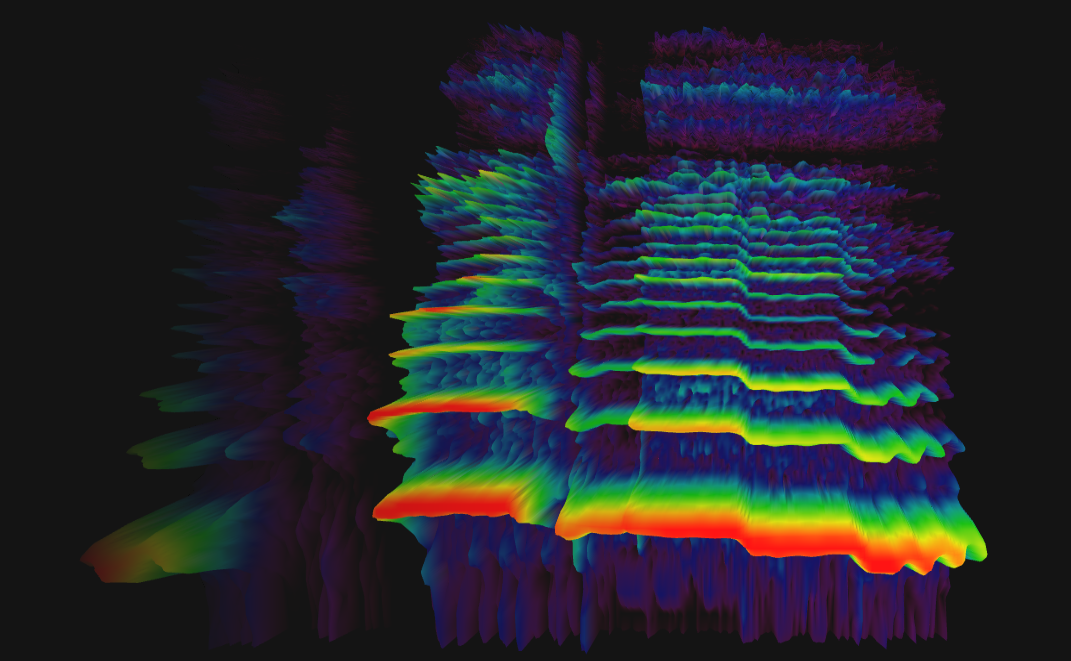
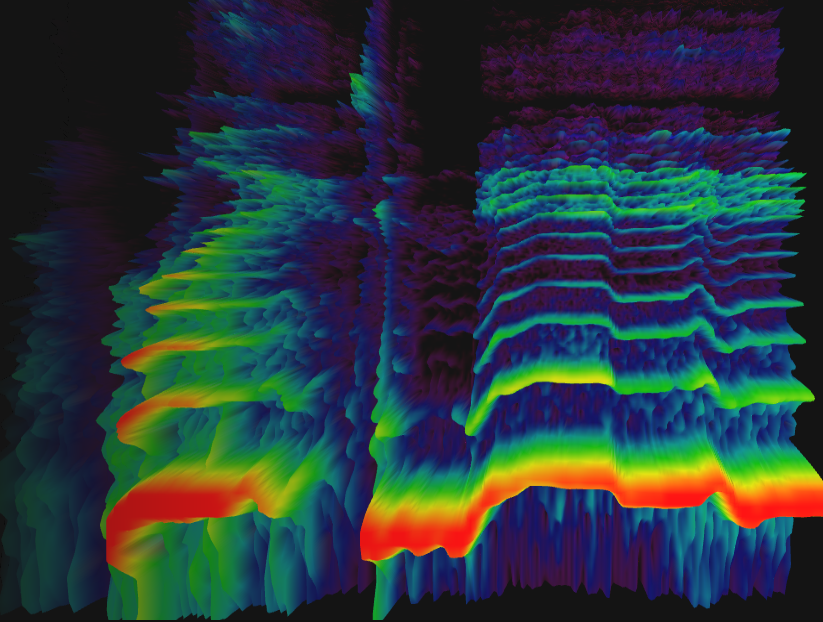
Add more css

diff --git a/frontend-app/voice-connect/src/App.js b/frontend-app/voice-connect/src/App.js
@@ -3,6 +3,7 @@ import UploadFileForm from "./upload-page/UploadFileForm";
 import ResultsContainer from "./results-page/ResultsContainer";
 import Card from "@material-ui/core/Card";
 import Grid from "@material-ui/core/Grid";
+import Typography from "@material-ui/core/Typography";
 import { withStyles } from "@material-ui/styles";
 
 const useStyles = (theme) => ({
@@ -10,22 +11,31 @@ const useStyles = (theme) => ({
     background: theme.palette.primary.baby,
     minWidth: "100%",
     minHeight: "100vh",
-    display: "flex",
+    display: "grid",
+    gridTemplateColumns: "1fr 1fr",
     flexDirection: "column",
-    justifyContent: "center",
+    alignItems: "center",
   },
   card: {
-    minWidth: "60vw",
-    maxWidth: "100vw",
-    minHeight: "50vh",
+    margin: "0px 30px",
+    minWidth: "40vw",
+    minHeight: "60vh",
     display: "flex",
     alignItems: "center",
+    alignSelf: "center",
     backgroundColor: theme.palette.primary.dark,
-    boxShadow: "10px 10px 5px 0px rgba(0,0,0,0.25)",
+    boxShadow: "10px 10px 5px 0px rgba(77,191,20,0.29)",
+    gridColumn: "1",
   },
   resultsGrid: {
     display: "flex",
     flexWrap: "wrap",
+  },
+  description: {
+    gridColumn: "2",
+    minHeight: "90vh",
+    maxWidth: "100%",
+    padding: "0px 30px 0px 0px"
   },
 });
 
@@ -53,10 +63,19 @@ class App extends Component {
           spacing={0}
           alignItems="center"
           justify="center"
+          style={{
+            backgroundImage: `url(${process.env.PUBLIC_URL + "/spectrogram.png"})`,
+          }}
         >
           <Card className={classes.card} variant="outlined">
             <UploadFileForm handler={this.handler}> </UploadFileForm>{" "}
           </Card>
+          <Grid
+            container
+            className={classes.description}
+          >
+            <Typography>ifjahkdL:DSodpiouhlkfjahleuhsnk</Typography>
+          </Grid>
         </Grid>
       );
     }

diff --git a/frontend-app/voice-connect/src/results-page/ResultsContainer.js b/frontend-app/voice-connect/src/results-page/ResultsContainer.js
@@ -33,8 +33,8 @@ const useStyles = (theme) => ({
   },
   text: {
     margin: "20px 0px",
-    backgroundColor: theme.palette.primary.mint,
-    color: theme.palette.primary.dark,
+    backgroundColor: theme.palette.secondary.main,
+    color: "#fff5ee",
     boxShadow: "6px 6px 15px 0px rgba(255,245,238,0.43)",
     width: "100%",
     height: "20%",
@@ -63,7 +63,7 @@ class ResultsContainer extends Component {
     return (
       <Grid container className={classes.grid}>
         <Card container className={classes.text}>
-          <Typography align="center" variant="h4">
+          <Typography align="center" variant="h5">
             The predicted genres were: {genres}.<br />
             Here are the most similar songs in our dataset:
           </Typography>

diff --git a/frontend-app/voice-connect/src/index.js b/frontend-app/voice-connect/src/index.js
@@ -12,13 +12,13 @@ const theme = createMuiTheme({
   palette: {
     primary: {
       main: "#136f63",
-      dark: "#04151F",
-      baby: "#f2ccc3",
-      mint: "#9cfc97",
-      pink: "#e78f8e"
+      dark: "#22145a",
+      baby: "#28af36",
+      mint: "#143d39",
+      pink: "#149a7d"
     },
     secondary: {
-      main: "#e78f8e",
+      main: "#4dbf14",
     },
   },
 });
